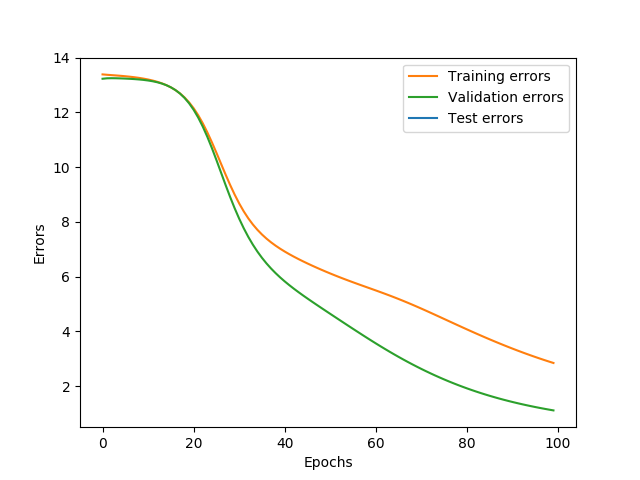
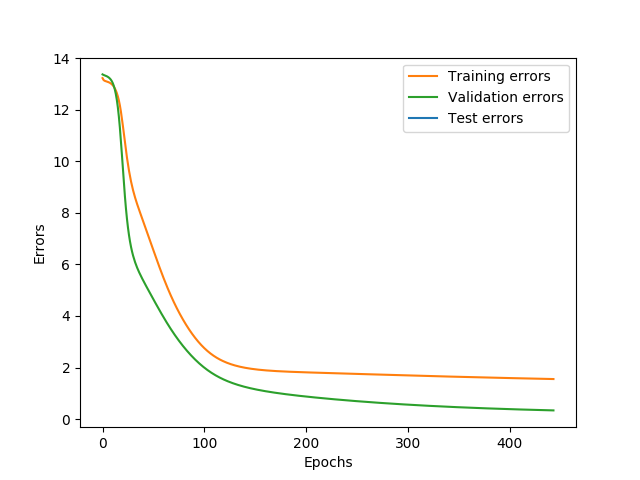
first commit

diff --git a/nn_mnist.py b/nn_mnist.py
@@ -3,6 +3,11 @@ import cPickle
 
 import tensorflow as tf
 import numpy as np
+import matplotlib
+
+matplotlib.use('Agg')
+import matplotlib.cm as cm
+import matplotlib.pyplot as plt
 
 
 # Translate a list of labels into an array of 0's and one 1.
@@ -21,21 +26,88 @@ def one_hot(x, n):
     return o_h
 
 
+def print_results(mode, epoch_number, error, batch_xs, batch_ys):
+    print mode, " epoch #:", epoch_number, "Error: ", error
+    result = sess.run(y, feed_dict={x: batch_xs})
+    for b, r in zip(batch_ys, result):
+        print b, "-->", r
+
+
 f = gzip.open('mnist.pkl.gz', 'rb')
 train_set, valid_set, test_set = cPickle.load(f)
 f.close()
 
 train_x, train_y = train_set
+valid_x, valid_y = valid_set
+test_x, test_y = test_set
 
+train_y = one_hot(train_y.astype(int), 10)
+valid_y = one_hot(valid_y.astype(int),10)
+test_y = one_hot(test_y.astype(int),10)
+
+x = tf.placeholder("float", [None, 784])  # samples
+y_ = tf.placeholder("float", [None, 10])  # labels
+
+W1 = tf.Variable(np.float32(np.random.rand(784, 10)) * 0.1)
+b1 = tf.Variable(np.float32(np.random.rand(10)) * 0.1)
+
+W2 = tf.Variable(np.float32(np.random.rand(10, 10)) * 0.1)
+b2 = tf.Variable(np.float32(np.random.rand(10)) * 0.1)
+
+h = tf.nn.sigmoid(tf.matmul(x, W1) + b1)
+
+y = tf.nn.softmax(tf.matmul(x, W1) + b1)
+
+loss = tf.reduce_sum(tf.square(y_ - y))
+
+train = tf.train.GradientDescentOptimizer(0.01).minimize(loss)
+
+init = tf.initialize_all_variables()
+
+sess = tf.Session()
+sess.run(init)
+
+print "----------------------"
+print "   Start training...  "
+print "----------------------"
+
+batch_size = 1
+maximum_validation_errors = 6
+validation_error_counter = 0
+training_errors = []
+validation_errors = []
+test_errors = []
+last_validation_error = 1
+before_validation_error = 1
+validation_error = 0.1
+diferrence = 100
+
+for epoch in range(100):
+    for jj in xrange(len(train_x) / batch_size):
+        batch_training_xs = train_x[jj * batch_size: jj * batch_size + batch_size]
+        batch_training_ys = train_y[jj * batch_size: jj * batch_size + batch_size]
+        sess.run(train, feed_dict={x: batch_training_xs, y_: batch_training_ys})
+
+    training_error = sess.run(loss, feed_dict={x: batch_training_xs, y_: batch_training_ys})
+    training_errors.append(training_error)
+
+    print_results(mode="Training", epoch_number=epoch, error=training_error,
+                  batch_xs=batch_training_xs, batch_ys=batch_training_ys)
 
 # ---------------- Visualizing some element of the MNIST dataset --------------
-
-import matplotlib.cm as cm
-import matplotlib.pyplot as plt
+plt.ylabel('Errors')
+plt.xlabel('Epochs')
+# test_line, = plt.plot(test_errors)
+training_line, = plt.plot(training_errors)
+# validation_line, = plt.plot(validation_errors)
+plt.legend(handles=[training_line],
+           labels=["Training errors"])
+plt.savefig('mn.png')
 
 plt.imshow(train_x[57].reshape((28, 28)), cmap=cm.Greys_r)
-plt.show()  # Let's see a sample
-print train_y[57]
+# plt.show()  # Let's see a sample
+# print train_y[57]
+plt.savefig('number.png')
 
 
 # TODO: the neural net!!

diff --git a/nn_iris.py b/nn_iris.py
@@ -82,8 +82,14 @@ validation_error_counter = 0
 training_errors = []
 validation_errors = []
 test_errors = []
+last_validation_error = 1
+before_validation_error = 1
+validation_error = 0.1
+epoch = 0
+diferrence = 100
 
-for epoch in xrange(100):
+while (validation_error <= last_validation_error and diferrence > 0.001):
+    epoch += 1
 
     for jj in xrange(len(x_training_data) / batch_size):
         batch_training_xs = x_training_data[jj * batch_size: jj * batch_size + batch_size]
@@ -102,19 +108,21 @@ for epoch in xrange(100):
     # Validation
     validation_error = sess.run(loss, feed_dict={x: batch_validation_xs, y_: batch_validation_ys})
 
-    if validation_errors:
-        last_validation_error = validation_errors[-1]
-        if validation_error >= last_validation_error:
-            validation_error_counter += 1
-            if validation_error_counter > maximum_validation_errors:
-                print "Exceeded maximum number[%d] of validation errors upticks, " \
-                      "so the training is stopped in epoch %d" \
-                      % (maximum_validation_errors, epoch)
-                break
-        else:
-            validation_error_counter = 0
+    #if validation_errors:
+    #    last_validation_error = validation_errors[-1]
+    #    if validation_error >= last_validation_error:
+    #        validation_error_counter += 1
+    #        if validation_error_counter > maximum_validation_errors:
+    #            print "Exceeded maximum number[%d] of validation errors upticks, " \
+    #                  "so the training is stopped in epoch %d" \
+    #                  % (maximum_validation_errors, epoch)
+    #            break
+    #    else:
+    #        validation_error_counter = 0
     validation_errors.append(validation_error)
-
+    if(epoch > 1):
+        diferrence = validation_errors[-2] - validation_error
+    last_validation_error = validation_errors[-1]
     # Training
     print_results(mode="Training", epoch_number=epoch, error=training_error,
                   batch_xs=batch_training_xs, batch_ys=batch_training_ys)
@@ -131,9 +139,9 @@ for kk in xrange(len(x_test_data) / batch_size):
     batch_test_xs = x_test_data[kk * batch_size: kk * batch_size + batch_size]
     batch_test_ys = y_test_data[kk * batch_size: kk * batch_size + batch_size]
     sess.run(train, feed_dict={x: batch_test_xs, y_: batch_test_ys})
-test_error = sess.run(loss, feed_dict={x: batch_test_xs, y_: batch_test_ys})
+    test_error = sess.run(loss, feed_dict={x: batch_test_xs, y_: batch_test_ys})
 
-test_errors.append(test_error)
+    test_errors.append(test_error)
 
 plt.ylabel('Errors')
 plt.xlabel('Epochs')
